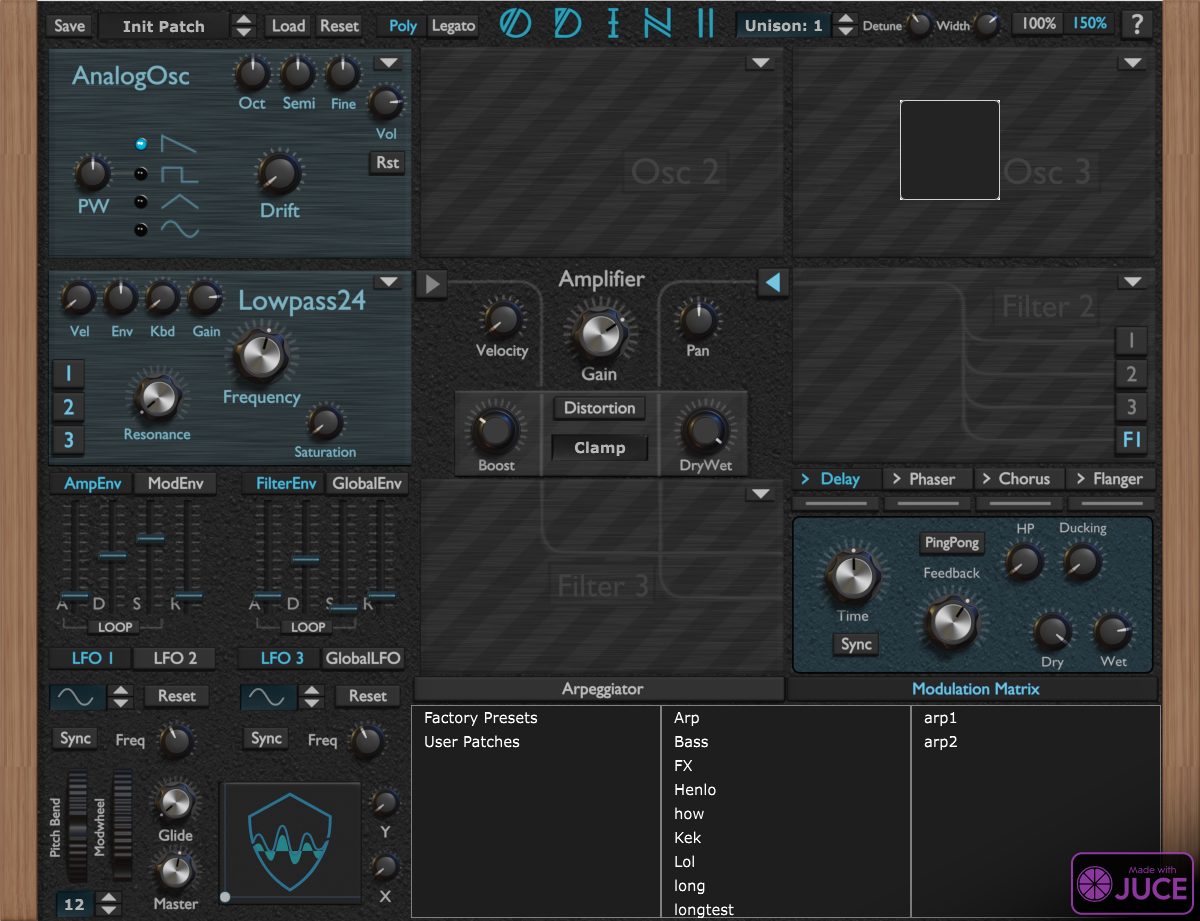
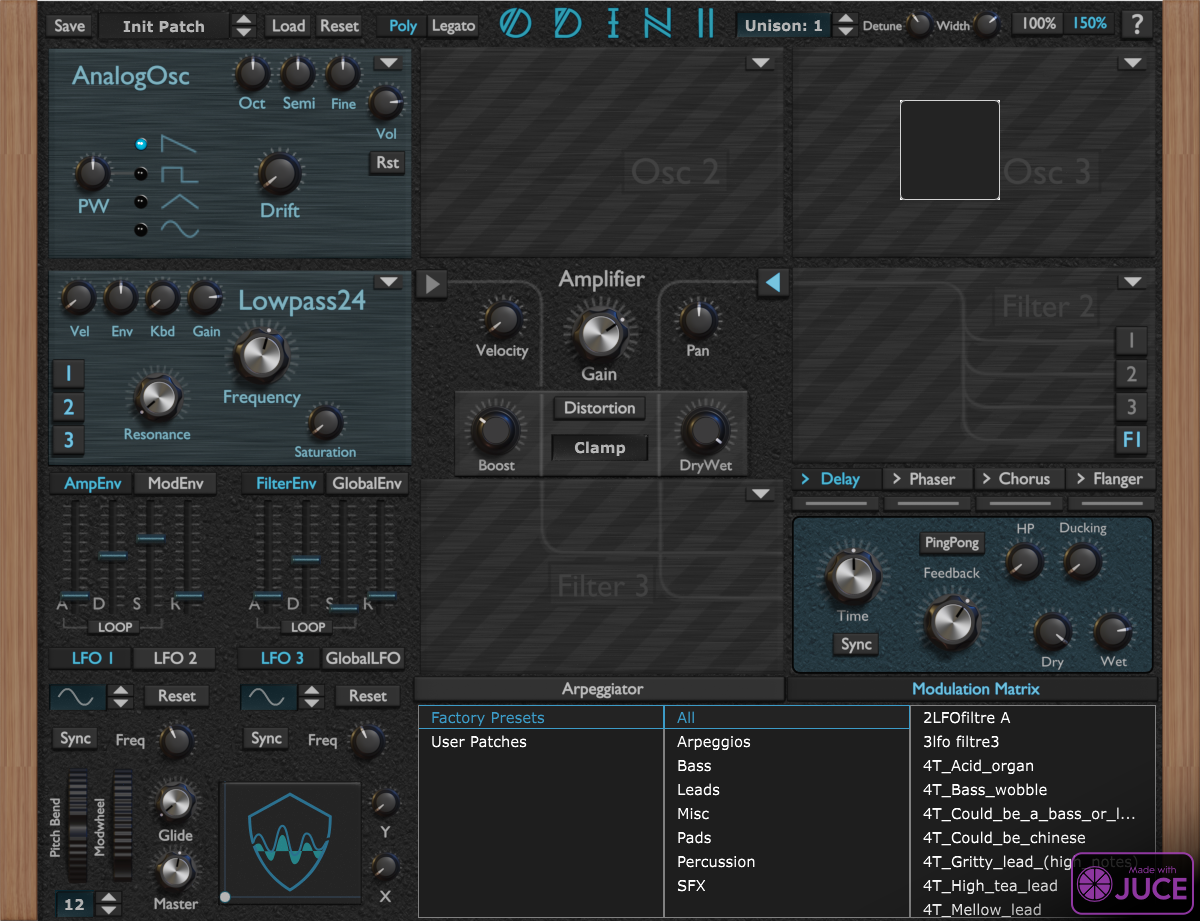
further work on patch-browser

Changed region(s): [[0.7708, 0.76, 0.925, 1.0], [0.5242, 0.76, 0.6167, 1.0], [0.3392, 0.76, 0.4625, 0.8208]]

diff --git a/Source/PatchBrowser.cpp b/Source/PatchBrowser.cpp
@@ -1,9 +1,10 @@
 #include "PatchBrowser.h"
 #include <JuceHeader.h>
 
-PatchBrowser::PatchBrowser() :
+PatchBrowser::PatchBrowser(OdinAudioProcessor &p_processor, AudioProcessorValueTreeState &p_vts) :
     m_soundbank_selector(File::TypesOfFileToFind::findDirectories),
-    m_category_selector(File::TypesOfFileToFind::findDirectories), m_patch_selector(File::TypesOfFileToFind::findFiles)
+    m_category_selector(File::TypesOfFileToFind::findDirectories), m_patch_selector(File::TypesOfFileToFind::findFiles),
+    m_audio_processor(p_processor), m_value_tree(p_vts)
 
 {
 	addAndMakeVisible(m_soundbank_selector);
@@ -11,23 +12,35 @@ PatchBrowser::PatchBrowser() :
 	addAndMakeVisible(m_patch_selector);
 
 	m_soundbank_selector.setDirectory(DEFAULT_SOUNDBANK_LOCATION_STRING);
-	m_category_selector.setDirectory(DEFAULT_SOUNDBANK_LOCATION_STRING + "/Factory Presets");
+	m_category_selector.setDirectory(m_soundbank_selector.getFirstSubDirectoryAndHighlightIt());
 	m_patch_selector.setWildCard("*.odin");
-	m_patch_selector.setDirectory(DEFAULT_SOUNDBANK_LOCATION_STRING + "/Factory Presets/Arp");
+	m_patch_selector.setDirectory(m_category_selector.getFirstSubDirectoryAndHighlightIt());
 
-	m_soundbank_selector.passValueToPatchBrowser = [&](String p_string){
+	m_soundbank_selector.passValueToPatchBrowser = [&](String p_string) {
 		DBG(p_string + " was pressed in soundbank");
 		m_category_selector.setDirectory(m_soundbank_selector.getDirectory() + File::getSeparatorString() + p_string);
 		m_patch_selector.setDirectory(m_category_selector.getFirstSubDirectoryAndHighlightIt());
 	};
 
-	m_category_selector.passValueToPatchBrowser = [&](String p_string){
+	m_category_selector.passValueToPatchBrowser = [&](String p_string) {
 		DBG(p_string + " was pressed in category");
 		m_patch_selector.setDirectory(m_category_selector.getDirectory() + File::getSeparatorString() + p_string);
 	};
 
-	m_patch_selector.passValueToPatchBrowser = [&](String p_string){
-		DBG("Open patch: " + m_patch_selector.getDirectory() + File::getSeparatorString() + p_string);
+	m_patch_selector.passValueToPatchBrowser = [&](String p_string) {
+		DBG("Try to open patch: " + m_patch_selector.getDirectory() + File::getSeparatorString() + p_string);
+		String absolute_path = m_patch_selector.getDirectory() + File::getSeparatorString() + p_string;
+
+		File file_to_open(absolute_path);
+
+		FileInputStream file_stream(file_to_open);
+		if (file_stream.openedOk()) {
+			loadPatchFromOpenedFileStream(file_stream);
+			m_value_tree.state.getChildWithName("misc").setProperty(
+			    "current_patch_filename", file_to_open.getFileName(), nullptr);
+			DBG("set filename in valuetree: " +
+			    m_value_tree.state.getChildWithName("misc")["current_patch_filename"].toString());
+		}
 	};
 }
 
@@ -37,22 +50,23 @@ PatchBrowser::~PatchBrowser() {
 void PatchBrowser::paint(Graphics &g) {
 	g.fillAll(getLookAndFeel().findColour(ResizableWindow::backgroundColourId)); // clear the background
 
-	g.setColour(Colours::grey);
-	g.drawRect(getLocalBounds(), 1); // draw an outline around the component
-
 	g.setColour(Colours::white);
 	g.setFont(14.0f);
 	g.drawText("PatchBrowser", getLocalBounds(), Justification::centred, true); // draw some placeholder text
 }
 
+void PatchBrowser::paintOverChildren(Graphics &g) {
+	g.setColour(Colours::grey);
+	g.drawRect(getLocalBounds().expanded(0,1).translated(0,-1), 1); // draw an outline around the component
+}
+
 void PatchBrowser::setGUIBig() {
 	m_GUI_big = true;
 
+	m_soundbank_selector.setBounds(0, 0, BROWSER_SIZE_X_150 / 3, 213);
+	m_category_selector.setBounds(BROWSER_SIZE_X_150 / 3, 0, BROWSER_SIZE_X_150 / 3, 213);
+	m_patch_selector.setBounds((BROWSER_SIZE_X_150 / 3) * 2, 0, BROWSER_SIZE_X_150 / 3, 213);
 
-	m_soundbank_selector.setBounds(0, 0, 250, 213);
-	m_category_selector.setBounds(250, 0, 250, 213);
-	m_patch_selector.setBounds(500, 0, 250, 213);
-	
 	m_soundbank_selector.setGUIBig();
 	m_category_selector.setGUIBig();
 	m_patch_selector.setGUIBig();
@@ -63,4 +77,68 @@ void PatchBrowser::setGUISmall() {
 	m_soundbank_selector.setGUISmall();
 	m_category_selector.setGUISmall();
 	m_patch_selector.setGUISmall();
+}
+
+void PatchBrowser::loadPatchFromOpenedFileStream(juce::FileInputStream &p_file_stream) {
+	//first see if the patch is of a higher version than we know about:
+	std::string version_string;
+	if (checkForBiggerVersion(p_file_stream, version_string)) {
+		//abort with icon
+		AlertWindow::showMessageBox(
+		    AlertWindow::AlertIconType::WarningIcon,
+		    "Cannot load patch!",
+		    "The bad news: You cannot load this patch, because you are on version " + ODIN_VERSION_STRING +
+		        ".\nThe good news: The patch you're trying to load was created on version " + version_string +
+		        ". So go to www.thewavewarden.com and download the latest version of Odin2!",
+		    "Thanks, I will!");
+		return;
+	}
+
+	// if we're reading an older patch version we set the default patch first
+	// since new params might not exist and will only be set
+	if (checkForSmallerVersion(p_file_stream, version_string)) {
+		DBG("Reading older patch, setting init patch first");
+		MemoryInputStream init_stream(BinaryData::init_patch_odin, BinaryData::init_patch_odinSize, false);
+		m_audio_processor.readPatch(ValueTree::readFromStream(init_stream));
+	}
+
+	//reset stream position
+	p_file_stream.setPosition(0);
+	m_audio_processor.readPatch(ValueTree::readFromStream(p_file_stream).createCopy());
+	forceValueTreeLambda();
+
+	//set the correct Version number again
+	m_value_tree.state.getChildWithName("misc").setProperty("version_minor", ODIN_MINOR_VERSION, nullptr);
+	m_value_tree.state.getChildWithName("misc").setProperty("version_patch", ODIN_PATCH_VERSION, nullptr);
+	m_value_tree.state.getChildWithName("misc").setProperty(
+	    "patch_migration_version", ODIN_PATCH_MIGRATION_VERSION, nullptr);
+
+	//this forces values onto the GUI (patch label as well)
+	forceValueTreeLambda();
+}
+
+bool PatchBrowser::checkForBiggerVersion(FileInputStream &p_file_stream, std::string &p_version_string) {
+	p_file_stream.setPosition(0);
+	auto value_tree_read = ValueTree::readFromStream(p_file_stream);
+	int patch_version    = value_tree_read.getChildWithName("misc")["patch_migration_version"];
+	if (patch_version > ODIN_PATCH_MIGRATION_VERSION) {
+		p_version_string = "2." + std::to_string((int)value_tree_read.getChildWithName("misc")["version_minor"]) + "." +
+		                   std::to_string((int)value_tree_read.getChildWithName("misc")["version_patch"]);
+		DBG("Trying to load PMV " + std::to_string(patch_version) + ", current PMV is " +
+		    std::to_string(ODIN_PATCH_MIGRATION_VERSION));
+		return true;
+	}
+	return false;
+}
+
+bool PatchBrowser::checkForSmallerVersion(FileInputStream &p_file_stream, std::string &p_version_string) {
+	p_file_stream.setPosition(0);
+	auto value_tree_read = ValueTree::readFromStream(p_file_stream);
+	int patch_version    = value_tree_read.getChildWithName("misc")["patch_migration_version"];
+	if (patch_version < ODIN_PATCH_MIGRATION_VERSION) {
+		p_version_string = "2." + std::to_string((int)value_tree_read.getChildWithName("misc")["version_minor"]) + "." +
+		                   std::to_string((int)value_tree_read.getChildWithName("misc")["version_patch"]);
+		return true;
+	}
+	return false;
 }

diff --git a/Source/PatchBrowser.h b/Source/PatchBrowser.h
@@ -2,22 +2,34 @@
 
 #include <JuceHeader.h>
 #include "PatchBrowserSelector.h"
+#include "PluginProcessor.h"
 
 #define DEFAULT_SOUNDBANK_LOCATION_STRING (File::getSpecialLocation(File::SpecialLocationType::userDocumentsDirectory).getFullPathName() + "/Soundbanks")
 
 class PatchBrowser    : public Component
 {
 public:
-    PatchBrowser();
+    PatchBrowser(OdinAudioProcessor &p_processor, AudioProcessorValueTreeState &p_vts);
     ~PatchBrowser();
 
     void paint (Graphics&) override;
+    void paintOverChildren (Graphics&) override;
 
     void setGUIBig();
     void setGUISmall();
 
+	std::function<void()> forceValueTreeLambda;
+
+
 private:
+    void loadPatchFromOpenedFileStream(juce::FileInputStream &p_file_stream);
+    bool checkForBiggerVersion(FileInputStream &p_file_stream, std::string &p_version_string);
+    bool checkForSmallerVersion(FileInputStream &p_file_stream, std::string &p_version_string);
+
     bool m_GUI_big = false;
+
+	OdinAudioProcessor &m_audio_processor;
+	AudioProcessorValueTreeState &m_value_tree;
 
     PatchBrowserSelector m_soundbank_selector;
     PatchBrowserSelector m_category_selector;

diff --git a/Source/PatchBrowserSelector.cpp b/Source/PatchBrowserSelector.cpp
@@ -2,9 +2,12 @@
 #include <JuceHeader.h>
 
 PatchBrowserSelector::PatchBrowserSelector(File::TypesOfFileToFind p_file_or_dir) : m_file_or_dir(p_file_or_dir) {
+	m_menu.addItem(10, "Delete");
+	m_menu.setLookAndFeel(&m_menu_feels);
 }
 
 PatchBrowserSelector::~PatchBrowserSelector() {
+	m_menu.setLookAndFeel(nullptr);
 }
 
 void PatchBrowserSelector::paint(Graphics &g) {
@@ -18,6 +21,8 @@ void PatchBrowserSelector::resized() {
 
 void PatchBrowserSelector::setGUIBig() {
 	m_GUI_big = true;
+	
+	m_menu_feels.setGUIBig();
 
 	resetScrollPosition();
 	positionEntries();
@@ -25,6 +30,8 @@ void PatchBrowserSelector::setGUIBig() {
 
 void PatchBrowserSelector::setGUISmall() {
 	m_GUI_big = false;
+
+	m_menu_feels.setGUISmall();
 
 	resetScrollPosition();
 	positionEntries();
@@ -65,6 +72,9 @@ void PatchBrowserSelector::generateContent() {
 					//DBG(return_string + " was clicked!");
 					passValueToPatchBrowser(return_string);
 					unhighlightAllEntries();
+				};
+				m_entries[file_index]->onRightClick = [&, return_string]() {
+					m_menu.show();
 				};
 			}
 

diff --git a/Source/PluginEditor.cpp b/Source/PluginEditor.cpp
@@ -81,7 +81,7 @@ OdinAudioProcessorEditor::OdinAudioProcessorEditor(OdinAudioProcessor &p_process
     m_phaser_position_identifier("phaser_position"), m_chorus_position_identifier("chorus_position"), m_mod_matrix(vts),
     m_legato_button("legato"), m_gui_size_button("gui_size"), m_tooltip(nullptr, 2047483647),
     m_is_standalone_plugin(p_is_standalone), m_save_load(vts, p_processor), m_arp(p_processor, vts),
-    m_processor(p_processor) {
+    m_processor(p_processor), m_patch_browser(p_processor, vts) {
 
 #ifdef ODIN_MAC
 	setBufferedToImage(true);
@@ -98,6 +98,7 @@ OdinAudioProcessorEditor::OdinAudioProcessorEditor(OdinAudioProcessor &p_process
 	p_processor.updateModWheelGUI     = [&](float p_value) { updateModWheel(p_value); };
 
 	m_save_load.forceValueTreeLambda = [&]() { forceValueTreeOntoComponents(true); };
+	m_patch_browser.forceValueTreeLambda = [&]() { forceValueTreeOntoComponents(true); };
 
 	Knob::setOdinPointer(&p_processor);
 	DrawableSlider::setOdinPointer(&p_processor);

diff --git a/Source/GlasDisplay.h b/Source/GlasDisplay.h
@@ -1,12 +1,3 @@
-/*
-  ==============================================================================
-
-    GlasDisplay.h
-    Created: 27 Feb 2019 11:56:53am
-    Author:  frot
-
-  ==============================================================================
-*/
 
 #pragma once
 
@@ -14,9 +5,6 @@
 #include "GlobalIncludes.h"
 #define INLAY_DEF 1
 
-//==============================================================================
-/*
- */
 class GlasDisplay : public SettableTooltipClient, public Component {
 public:
 	GlasDisplay();

diff --git a/Source/GlobalIncludes.h b/Source/GlobalIncludes.h
@@ -77,6 +77,11 @@
 #define FILTER_TYPE_FORMANT 35
 #define FILTER_TYPE_RINGMOD 40
 
+#define BROWSER_POS_X_150 418
+#define BROWSER_POS_Y_150 705
+#define BROWSER_SIZE_X_150 738
+#define BROWSER_SIZE_Y_150 213
+
 // midpoint for filters:
 // https://www.wolframalpha.com/input/?i=80*e%5E%28ln%2818000%2F80%29*0.5%29
 // skew for filters:

diff --git a/Source/PluginEditor.h b/Source/PluginEditor.h
@@ -114,11 +114,6 @@
 #define ARPEGGIATOR_POS_X MATRIX_POS_X_100
 #define ARPEGGIATOR_POS_Y 470
 
-#define BROWSER_POS_X_150 411
-#define BROWSER_POS_Y_150 705
-#define BROWSER_SIZE_X_150 750
-#define BROWSER_SIZE_Y_150 213
-
 #define SAVE_LOAD_POS_X 23
 #define SAVE_LOAD_POS_Y 2
 #define SAVE_LOAD_SIZE_X 288

diff --git a/Source/BrowserEntry.cpp b/Source/BrowserEntry.cpp
@@ -71,7 +71,7 @@ void BrowserEntry::mouseDown(const MouseEvent &e) {
 		onLeftClick();
 		m_is_active = true;
 	} else if (e.mods.isRightButtonDown()) {
-		DBG("RIGHTCLICK");
+		onRightClick();
 	}
 	Component::mouseDown(e);
 	repaint();

diff --git a/Source/PatchBrowserSelector.h b/Source/PatchBrowserSelector.h
@@ -48,6 +48,9 @@ private:
 
 	std::vector<std::unique_ptr<BrowserEntry>> m_entries;
 
+	PopupMenu m_menu;
+	OdinMenuFeels m_menu_feels;
+
 	bool m_GUI_big = false;
 	JUCE_DECLARE_NON_COPYABLE_WITH_LEAK_DETECTOR(PatchBrowserSelector)
 };

diff --git a/Source/BrowserEntry.h b/Source/BrowserEntry.h
@@ -26,6 +26,7 @@ public:
 	String getText();
 
 	std::function<void()> onLeftClick;
+	std::function<void()> onRightClick;
 
 private:
 
